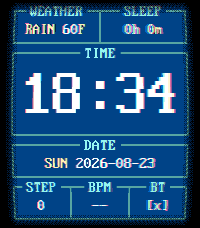
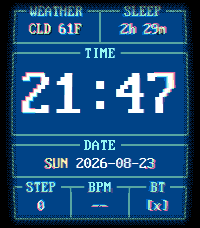
fix: revert CRT to master'is, remove diconnect warn

diff --git a/src/pkjs/config.js b/src/pkjs/config.js
@@ -80,7 +80,7 @@ module.exports = [
                      ['1', 'Turbo Vision (light grey)'], ['2', 'Norton (EGA blue)'],
                      ['3', 'Dark (black)'], ['4', 'Navigator (dark grey)']
                    ])),
-            select('SETTINGS_CRT', 'CRT effect', '1', labeledOptions([['1', 'On'], ['0', 'Off']])),
+            select('SETTINGS_CRT', 'CRT effect', '0', labeledOptions([['1', 'On'], ['0', 'Off']])),
             select(
                 'SETTINGS_CRT_SOUND', 'CRT degauss sound', '0',
                 labeledOptions([['1', 'On'], ['0', 'Off']])),
@@ -102,10 +102,6 @@ module.exports = [
                      ['0', 'Before date (THU 1970-12-31)'], ['1', 'After date (1970-12-31 THU)'],
                      ['2', 'Hidden (1970-12-31)']
                    ])),
-            {
-              type : 'text',
-              defaultValue : 'If disconnects are frequent, your phone is killing the Pebble app in the background - which also breaks notifications and weather. On Android, exclude the app from battery optimization.',
-            },
           ],
   },
   {

diff --git a/test/pkjs/config.test.js b/test/pkjs/config.test.js
@@ -23,7 +23,7 @@ test('config has the heading, two sections, and submit in order', () => {
   assert.equal(config[1].type, 'section');
   assert.equal(config[2].type, 'section');
   assert.equal(config[3].type, 'submit');
-  assert.equal(config[1].items.length, 9);  // eight settings + battery-saver text
+  assert.equal(config[1].items.length, 8);  // eight settings
   assert.equal(config[2].items.length, 7);  // heading + six slot selects
 });
 

diff --git a/test/test_watchface.c b/test/test_watchface.c
@@ -3829,26 +3829,27 @@ void test_crt_vignette_should_dither_the_falloff(void) {
 void test_crt_ca_should_pull_red_from_the_left(void) {
   s_settings_crt = 1;
   memset(mock_framebuffer, 0xC0, sizeof(mock_framebuffer));  // opaque black
-  // R pulls from the inward side on the left half, one row down when s_v=1.
-  // Fixture at (24,20): sum = xq 147 + yterm 173 = 320 ≥ R2V (306) so the
-  // vertical tap stays active, t3=4 → j=1 → plain copy from x+1. Warp at
-  // row 20 shows CA col 24 on dest 28 (crt_warp_sx). Bar: cols 25..32,
-  // row 21 — dest(28,20)'s red comes from the bar, G from its empty own row.
-  for (int x = 25; x <= 32; x++) mock_framebuffer[21 * 200 + x] = 0xF0;
+  // A red bar at cols 23..30 on row 110, left half. Under the radial warp
+  // (crt_warp_sx(24,109) = 22 there — ~3% side magnification at that
+  // radius), dest(24,109) displays CA col 22, which samples (23,110) — the
+  // fringe lands one row UP, shifted two dest cols right by the warp.
+  for (int x = 23; x <= 30; x++) mock_framebuffer[110 * 200 + x] = 0xF0;
   crt_update_proc(NULL, s_fake_ctx);
 
-  uint8_t* row = &mock_framebuffer[20 * 200];
-  TEST_ASSERT_EQUAL_HEX8(3, (row[28] >> 4) & 3);  // pulled in from below-right
-  TEST_ASSERT_EQUAL_HEX8(0, (row[28] >> 2) & 3);  // G read from own (empty) row
-  TEST_ASSERT_EQUAL_HEX8(0, (row[27] >> 4) & 3);  // outside the bar: void
+  uint8_t* row = &mock_framebuffer[109 * 200];
+  TEST_ASSERT_TRUE(((row[24] >> 4) & 3) >= 2);    // pulled in from below-right
+  TEST_ASSERT_EQUAL_HEX8(0, (row[24] >> 2) & 3);  // G read from own (empty) row
+  TEST_ASSERT_EQUAL_HEX8(0, (row[23] >> 4) & 3);  // outside the bar: void
 }
 
-void test_crt_ca_centre_floor_should_mirror_ghosts_about_the_line(void) {
-  // The dead zone carries a deliberate 2/3px-per-channel base misconvergence
-  // (4/3px R↔B): D6 centroid R=−4, G=0, B=+4 sixths on the left half, mirrored
-  // on the right. The per-half correction sign is still pinned the same way:
-  // folding −1/3 into q and mirroring the taps (old buggy form) flips the
-  // right-half signs (would read −2 instead of +2).
+void test_crt_ca_zero_point_should_mirror_ghosts_about_the_line(void) {
+  // Dead-zone correction pins the fringe to 0 separation: a 1px white line
+  // under a dead zone converges on BOTH halves. The R element sits 1/3px
+  // left of its pixel centre on both halves alike (RGB stripe), so the
+  // correction sign follows the half, not the pull direction — folding -1/3
+  // into q and then mirroring the taps (old form) left the right half a
+  // 2/3px residual splay, measured on hardware. Pin discriminator: buggy
+  // code lights R one column left of the line on the right half.
   s_settings_crt = 1;
   s_flash_phase = CRT_FLASH_IDLE;
 
@@ -3861,7 +3862,9 @@ void test_crt_ca_centre_floor_should_mirror_ghosts_about_the_line(void) {
 
     uint8_t* row = &mock_framebuffer[113 * 200];
     // Channel raster displacement vs the content position, in sixths of a
-    // px: elements sit at (6x+1)/6 (R), (6x+3)/6 (G), (6x+5)/6 (B).
+    // px: elements sit at (6x+1)/6 (R), (6x+3)/6 (G), (6x+5)/6 (B); the
+    // line's content position is c+1/2 = (6c+3)/6. Converged -> 0 on both
+    // halves; the bug scored -4/+4 on the right half, 0 on the left.
     for (int ch = 0; ch < 3; ch++) {
       int num = 0, den = 0;
       for (int x = c - 3; x <= c + 3; x++) {
@@ -3870,26 +3873,28 @@ void test_crt_ca_centre_floor_should_mirror_ghosts_about_the_line(void) {
         den += l;
       }
       TEST_ASSERT_TRUE(den > 0);
-      int expected = ch == 1 ? 0 : ((ch == 0) == !half ? -4 : 4);
-      TEST_ASSERT_INT_WITHIN(1, expected, num / den - (6 * c + 3));
+      TEST_ASSERT_INT_WITHIN(1, 0, num / den - (6 * c + 3));
     }
 
     if (!half) {
-      // Left half: q=1 → f=1 — soft 2/1 ghosts ({c:2, c−1:1} R, mirrored B);
-      // the fringe is byte-visible but dim.
-      TEST_ASSERT_EQUAL_HEX8(2, (row[90] >> 4) & 3);
-      TEST_ASSERT_EQUAL_HEX8(1, (row[89] >> 4) & 3);
-      TEST_ASSERT_EQUAL_HEX8(2, row[90] & 3);
-      TEST_ASSERT_EQUAL_HEX8(1, row[91] & 3);
-      TEST_ASSERT_EQUAL_HEX8(3, (row[90] >> 2) & 3);  // G stays
+      // Left half, f=2 — exact under rounding (old bit-identical path).
+      TEST_ASSERT_EQUAL_HEX8(2, (row[90] >> 4) & 3);  // R weighted at the line
+      TEST_ASSERT_EQUAL_HEX8(1, (row[91] >> 4) & 3);  // R ghost toward the edge
+      TEST_ASSERT_EQUAL_HEX8(3, (row[90] >> 2) & 3);  // G untouched
+      TEST_ASSERT_EQUAL_HEX8(2, row[90] & 3);         // B weighted at the line
+      TEST_ASSERT_EQUAL_HEX8(1, row[89] & 3);         // B ghost toward the edge
+      TEST_ASSERT_EQUAL_HEX8(0, (row[89] >> 4) & 3);  // no red past it
+      TEST_ASSERT_EQUAL_HEX8(0, row[91] & 3);         // no blue past it
     } else {
-      // Right half: q=3 → j=1, f=0 — full-strength plain-copy echoes one
-      // column outward (R shows at the adjacent column, none on the line).
-      TEST_ASSERT_EQUAL_HEX8(3, (row[110] >> 4) & 3);
-      TEST_ASSERT_EQUAL_HEX8(0, (row[109] >> 4) & 3);
-      TEST_ASSERT_EQUAL_HEX8(3, row[108] & 3);
-      TEST_ASSERT_EQUAL_HEX8(0, row[109] & 3);
-      TEST_ASSERT_EQUAL_HEX8(3, (row[109] >> 2) & 3);  // G stays
+      // Right half, f=1: red pulls left 1/3px -> same {c:2, c+1:1} shape;
+      // blue keeps its edge-side ghost at c-1.
+      TEST_ASSERT_EQUAL_HEX8(2, (row[109] >> 4) & 3);
+      TEST_ASSERT_EQUAL_HEX8(1, (row[110] >> 4) & 3);
+      TEST_ASSERT_EQUAL_HEX8(3, (row[109] >> 2) & 3);
+      TEST_ASSERT_EQUAL_HEX8(2, row[109] & 3);
+      TEST_ASSERT_EQUAL_HEX8(1, row[108] & 3);
+      TEST_ASSERT_EQUAL_HEX8(0, (row[108] >> 4) & 3);  // THE +2/3px discriminator
+      TEST_ASSERT_EQUAL_HEX8(0, row[110] & 3);
     }
   }
 }
@@ -4025,9 +4030,9 @@ void test_crt_ca_boundary_row_should_not_read_across_halves(void) {
 }
 
 void test_crt_ca_onset_should_cut_at_the_dead_zone(void) {
-  // Centre carries the deliberate 2/3px base misconvergence (per channel);
+  // Centre never fringes (separation 0, not the old 2/3px floor); corners
   // corners split the full 2+2/3px (8 thirds per channel).
-  TEST_ASSERT_EQUAL_INT(2, crt_ca_shift3(100, 113, 200, 228));
+  TEST_ASSERT_EQUAL_INT(0, crt_ca_shift3(100, 113, 200, 228));
   TEST_ASSERT_EQUAL_INT(8, crt_ca_shift3(0, 0, 200, 228));
   TEST_ASSERT_EQUAL_INT(8, crt_ca_shift3(199, 227, 200, 228));
   // Mid-edge cells land in the middle band (1+1/3 px = 4 thirds), monotone out.
@@ -4043,7 +4048,7 @@ void test_crt_ca_ladder_should_be_monotone_and_mirror_symmetric(void) {
     int prev = crt_ca_shift3(0, y, 200, 228);
     for (int x = 0; x < 200; x++) {
       int s = crt_ca_shift3(x, y, 200, 228);
-      TEST_ASSERT_TRUE(s == 2 || s == 4 || s == 8);
+      TEST_ASSERT_TRUE(s == 0 || s == 4 || s == 8);
       TEST_ASSERT_EQUAL_INT(s, crt_ca_shift3(199 - x, y, 200, 228));
       TEST_ASSERT_EQUAL_INT(s, crt_ca_shift3(x, 227 - y, 200, 228));
       if (x <= 100) {
@@ -4100,9 +4105,9 @@ void test_crt_pure_geometry_should_match_the_spec(void) {
     }
   }
 
-  // CA: 2/3px at the centre (base misconvergence), 8 thirds per channel at
+  // CA: zero at the centre, 8 thirds (2+2/3px per channel) at the corners,
   // the corners, monotone along x.
-  TEST_ASSERT_EQUAL_INT(2, crt_ca_shift3(100, 113, 200, 228));
+  TEST_ASSERT_EQUAL_INT(0, crt_ca_shift3(100, 113, 200, 228));
   TEST_ASSERT_EQUAL_INT(8, crt_ca_shift3(0, 0, 200, 228));
   TEST_ASSERT_EQUAL_INT(8, crt_ca_shift3(199, 227, 200, 228));
   TEST_ASSERT_TRUE(crt_ca_shift3(190, 113, 200, 228) >= crt_ca_shift3(160, 113, 200, 228));
@@ -4539,7 +4544,7 @@ int main(void) {
   RUN_TEST(test_crt_should_round_the_corners_and_keep_the_centre);
   RUN_TEST(test_crt_vignette_should_dither_the_falloff);
   RUN_TEST(test_crt_ca_should_pull_red_from_the_left);
-  RUN_TEST(test_crt_ca_centre_floor_should_mirror_ghosts_about_the_line);
+  RUN_TEST(test_crt_ca_zero_point_should_mirror_ghosts_about_the_line);
   RUN_TEST(test_crt_strike_should_stack_ca_boost_in_whole_pixels);
   RUN_TEST(test_crt_strike_max_shift_should_stay_dark_away_from_the_edge);
   RUN_TEST(test_crt_ca_should_never_split_a_feature_into_two_ghosts);

diff --git a/src/c/crt.c b/src/c/crt.c
@@ -59,14 +59,12 @@ int crt_warp_sx(int x, int y, int w, int h) {
 
 // Horizontal CA rung from the squared Q8 radius (units: xq + yq from
 // crt_ca_shift3), returning per-channel displacement in THIRDS of a pixel:
-// 2 / 4 / 8 = 2/3 / 1+1/3 / 2+2/3 px. Thirds because the pass now samples
+// 0 / 4 / 8 = 0 / 1+1/3 / 2+2/3 px. Thirds because the pass now samples
 // channels fractionally (two weighted taps) instead of copying whole
-// neighbours — see stage 1 in crt_apply_framebuffer. The dead zone gets 2/3px
-// of base misconvergence (hardware A/B: zero read flat-eyed on the big
-// digits). Zone boundaries squared once:
-//   rq ≥ R ⇔ xq+yq ≥ ceil(R²/256) — so no per-pixel sqrt is needed.
+// neighbours — see stage 1 in crt_apply_framebuffer. Zone boundaries squared
+// once: rq ≥ R ⇔ xq+yq ≥ ceil(R²/256) — so no per-pixel sqrt is needed.
 static int crt_ca_t3_h2(int xy_sum) {
-  return xy_sum < CRT_CA_R2_X2Q8 ? 2 : (xy_sum < CRT_CA_R3_X2Q8 ? 4 : 8);
+  return xy_sum < CRT_CA_R2_X2Q8 ? 0 : (xy_sum < CRT_CA_R3_X2Q8 ? 4 : 8);
 }
 // Vertical wider zones, 1px max, same formulation.
 static int crt_ca_shift_v2(int xy_sum) {

diff --git a/src/c/crt.h b/src/c/crt.h
@@ -33,13 +33,11 @@ extern Layer* s_crt_layer;
 // (the stripe does not mirror: −1 left, +1 right) so the centre of the screen
 // converges instead of carrying a 2/3px floor.
 // Max separation 4px→5.3px: hardware A/B asked for a promoted fringe.
-// Vertical uses one threshold (R2V) with a 1px cap, whole pixels still — set as
-// the old R3, so vertical smear lives only in the deep outer zone; slot text
-// stopped smearing vertically (complements the horizontal 325 dial).
+// Vertical uses one threshold (R2V) with a 1px cap, whole pixels still.
 #define CRT_CA_R2_Q8 170
 #define CRT_CA_R3_Q8 \
   325  // sits past slot glyphs (sum ≤405): the max rung lives on frame strokes, not text
-#define CRT_CA_R2V_Q8 280
+#define CRT_CA_R2V_Q8 170
 
 // Squared thresholds for the zone compare — no per-pixel sqrt needed.
 #define CRT_CA_R2_X2Q8 ((CRT_CA_R2_Q8 * CRT_CA_R2_Q8 + 255) >> 8)

diff --git a/src/c/data.c b/src/c/data.c
@@ -57,7 +57,7 @@ int s_settings_date_format = 0;        // DateFormat: 0 = ISO, 1 = DOS, 2 = Text
 int s_settings_short_date_format = 0;  // 0 = Month-Day, 1 = Day-Month
 int s_settings_dow_position = 0;       // 0 = Before, 1 = After, 2 = Hidden
 int s_settings_weather_window = 12;    // hours ahead; 0 = in-progress hour only ("Now")
-int s_settings_crt = 1;                // 1 = CRT effect on (default on)
+int s_settings_crt = 0;                // 1 = CRT effect on (default off)
 int s_settings_crt_sound = 0;          // 1 = degauss sound at backlight-on (off by default)
 
 ComplicationSlot s_complication_slots[NUM_SLOTS] = {
